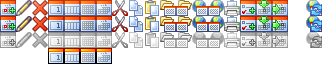
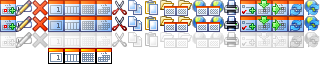
Checked in attachment 165963,165964,165967 and 165990 for bug 207381:Need button and periodic interval for refreshing/publishing a calendar

diff --git a/calendar/sunbird/themes/winstripe/sunbird/calendar.css b/calendar/sunbird/themes/winstripe/sunbird/calendar.css
@@ -694,15 +694,15 @@ toolbar[iconsize="small"] #calendar-publish-button:hover:active {
  *-------------------------------------------------------------------*/
 
 /*toolbar[iconsize="small"] #calendar-local-reload {
-        -moz-image-region: rect(0px 224px 16px 208px);
+        -moz-image-region: rect(0px 304px 16px 288px);
 }
 toolbar[iconsize="small"] #calendar-local-reload[disabled="true"],
 toolbar[iconsize="small"] #calendar-local-reload[disabled="true"]:hover,
 toolbar[iconsize="small"] #calendar-local-reload[disabled="true"]:hover:active {
-        -moz-image-region: rect(32px 224px 48px 208px);
+        -moz-image-region: rect(32px 304px 48px 288px);
 }
 toolbar[iconsize="small"] #calendar-local-reload:hover {
-        -moz-image-region: rect(16px 224px 32px 208px);
+        -moz-image-region: rect(16px 304px 32px 288px);
 }
 toolbar[iconsize="small"] #calendar-local-reload:hover:active {
 }*/
@@ -730,18 +730,19 @@ toolbar[iconsize="small"] #calendar-local-reload:hover:active {
  *-------------------------------------------------------------------*/
 
 toolbar[iconsize="small"] #calendar-remote-reload-button { 
-        -moz-image-region: rect(0px 322px 16px 306px);
+        -moz-image-region: rect(0px 320px 16px 304px);
 }
 toolbar[iconsize="small"] #calendar-remote-reload-button[disabled="true"],
 toolbar[iconsize="small"] #calendar-remote-reload-button[disabled="true"]:hover,
 toolbar[iconsize="small"] #calendar-remote-reload-button[disabled="true"]:hover:active {
-        -moz-image-region: rect(32px 322px 48px 306px);
+        -moz-image-region: rect(32px 320px 48px 304px);
 }
 toolbar[iconsize="small"] #calendar-remote-reload-button:hover {
-        -moz-image-region: rect(16px 322px 32px 306px);
+        -moz-image-region: rect(16px 320px 32px 304px);
 }
 toolbar[iconsize="small"] #calendar-remote-reload-button:hover:active {
 }
+
 /*--------------------------------------------------------------------
  *   Print button
  *-------------------------------------------------------------------*/
